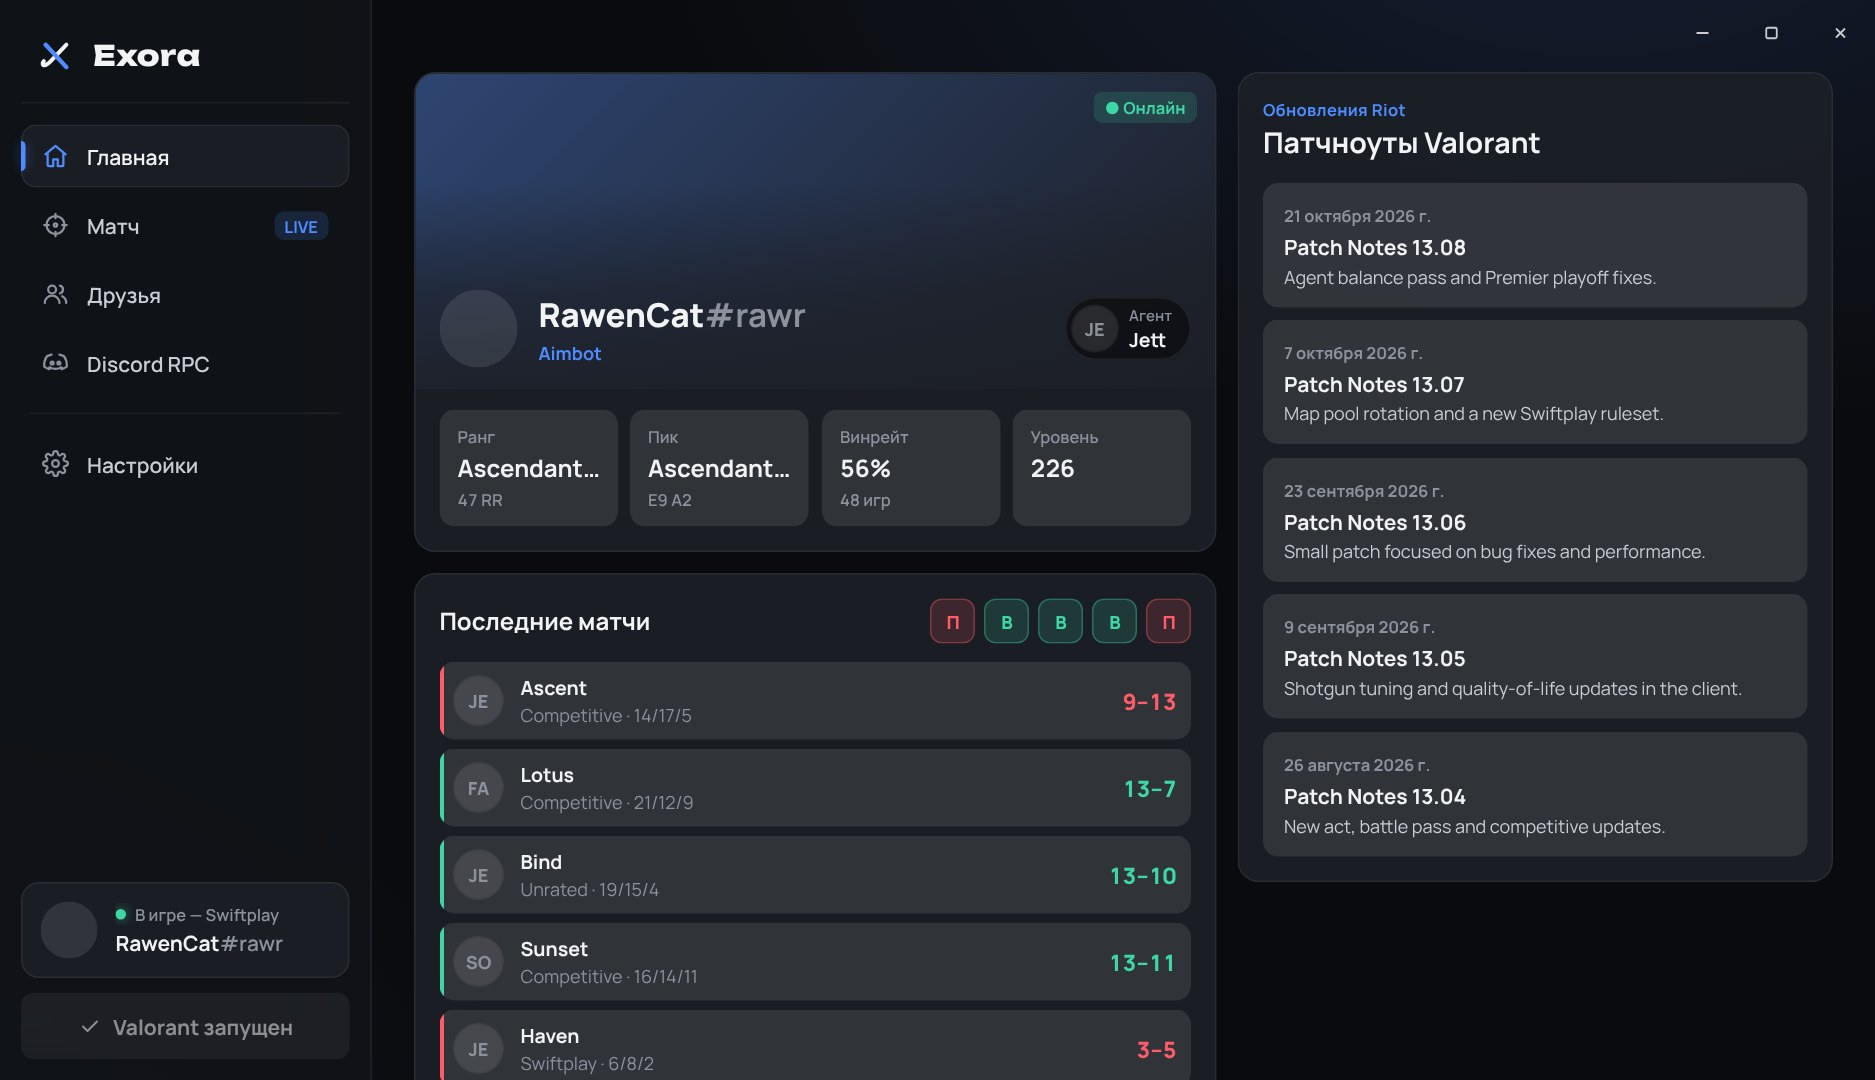
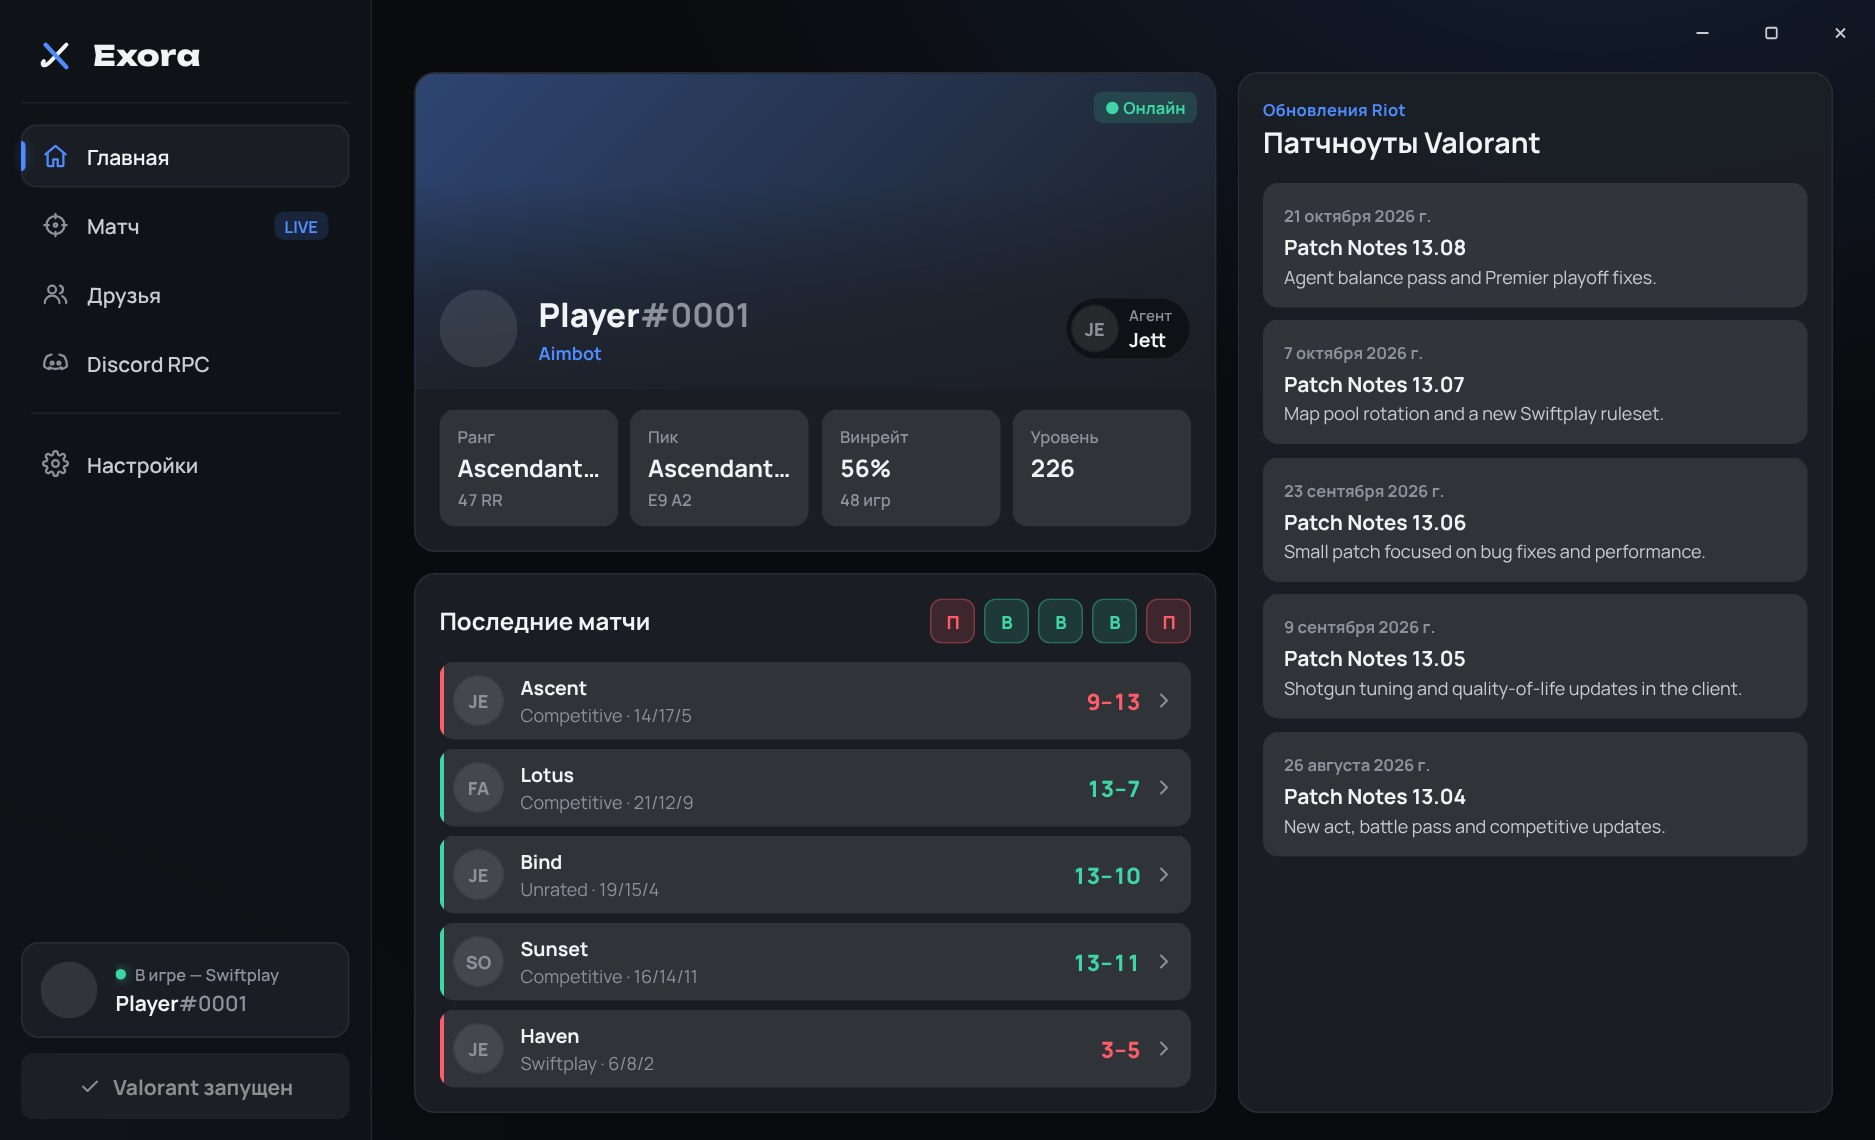
Neutral demo names and new README screenshots
The demo data uses Player / Player2… instead of real-looking names. All README
screenshots are retaken, with two new ones: a finished match with a player
opened, and a friend's profile.

diff --git a/src/ExoraValorant/wwwroot/js/mock.js b/src/ExoraValorant/wwwroot/js/mock.js
@@ -29,16 +29,16 @@ const MOCK = (() => {
   });
 
   const allies = [
-    player({ name: "RawenCat", tag: "rawr", isMe: true, agent: A.fade, title: "Aimbot", level: 226, rankTier: 21, rr: 47, peakTier: 22, peakAct: "E9 A2", prevTier: 20, wr: 56, games: 48, kd: 1.31, hs: 27, party: 0 }),
-    player({ name: "AleSuw", tag: "Niza", agent: A.sage, title: ":3", level: 0, rankTier: 14, rr: 81, peakTier: 16, peakAct: "E8 A3", prevTier: 13, wr: 51, games: 31, kd: 0.94, hs: 19, party: 0 }),
-    player({ name: "sauveur compulsif", tag: "EUW", agent: A.omen, title: "Aura", level: 0, rankTier: 18, rr: 12, peakTier: 19, prevTier: 17, wr: 49, games: 72, kd: 1.05, hs: 22 }),
-    player({ name: "Omega Lux", tag: "8812", agent: A.killjoy, title: "NPC", level: 0, rankTier: 10, rr: 33, peakTier: 12, prevTier: 9, wr: 44, games: 18, kd: 0.82, hs: 14 }),
-    player({ name: "ScorpiOn", tag: "MAIN", agent: A.raze, title: "Grrr", level: 0, rankTier: 16, rr: 64, peakTier: 17, prevTier: 15, wr: 53, games: 40, kd: 1.12, hs: 21 }),
+    player({ name: "Player", tag: "0001", isMe: true, agent: A.fade, title: "Aimbot", level: 226, rankTier: 21, rr: 47, peakTier: 22, peakAct: "E9 A2", prevTier: 20, wr: 56, games: 48, kd: 1.31, hs: 27, party: 0 }),
+    player({ name: "Player2", tag: "0002", agent: A.sage, title: ":3", level: 0, rankTier: 14, rr: 81, peakTier: 16, peakAct: "E8 A3", prevTier: 13, wr: 51, games: 31, kd: 0.94, hs: 19, party: 0 }),
+    player({ name: "Player3", tag: "0003", agent: A.omen, title: "Aura", level: 0, rankTier: 18, rr: 12, peakTier: 19, prevTier: 17, wr: 49, games: 72, kd: 1.05, hs: 22 }),
+    player({ name: "Player4", tag: "0004", agent: A.killjoy, title: "NPC", level: 0, rankTier: 10, rr: 33, peakTier: 12, prevTier: 9, wr: 44, games: 18, kd: 0.82, hs: 14 }),
+    player({ name: "Player5", tag: "0005", agent: A.raze, title: "Grrr", level: 0, rankTier: 16, rr: 64, peakTier: 17, prevTier: 15, wr: 53, games: 40, kd: 1.12, hs: 21 }),
   ];
   const enemies = [
     player({ name: "Reyna", hidden: true, agent: A.reyna, title: "Aimbot", level: 345, rankTier: 16, rr: 20, peakTier: 18, prevTier: 16, wr: 52, games: 61, kd: 1.22, hs: 25, party: 1 }),
-    player({ name: "rudnez", tag: "9888", agent: A.jett, title: "Green Flag", level: 115, rankTier: 16, rr: 71, peakTier: 17, prevTier: 15, wr: 50, games: 22, kd: 1.01, hs: 20, party: 1 }),
-    player({ name: "Saasil花Lu", tag: "月の花 鬼", agent: A.skye, title: "Wub Wub", level: 274, rankTier: 17, rr: 5, peakTier: 19, prevTier: 17, wr: 47, games: 54, kd: 0.97, hs: 18, party: 2, partyGuess: true }),
+    player({ name: "Player6", tag: "0006", agent: A.jett, title: "Green Flag", level: 115, rankTier: 16, rr: 71, peakTier: 17, prevTier: 15, wr: 50, games: 22, kd: 1.01, hs: 20, party: 1 }),
+    player({ name: "Player7", tag: "0007", agent: A.skye, title: "Wub Wub", level: 274, rankTier: 17, rr: 5, peakTier: 19, prevTier: 17, wr: 47, games: 54, kd: 0.97, hs: 18, party: 2, partyGuess: true }),
     player({ name: "Sova", hidden: true, agent: A.sova, title: "", level: 0, levelHidden: true, rankTier: 18, rr: 90, peakTier: 20, prevTier: 18, wr: 58, games: 88, kd: 1.4, hs: 31 }),
     player({ name: "Viper", hidden: true, agent: A.viper, title: "Aura", level: 475, rankTier: 15, rr: 42, peakTier: 16, prevTier: 14, wr: 45, games: 26, kd: 0.88, hs: 16, party: 2, partyGuess: true }),
   ];
@@ -49,7 +49,7 @@ const MOCK = (() => {
     connection: "ok",
     status: { state: "INGAME", mode: "Swiftplay", queue: "swiftplay", party: { size: 2, max: 5 }, score: { ally: 2, enemy: 1 }, since: Date.now() - 3 * 60e3, agent: A.fade },
     me: {
-      name: "RawenCat", tag: "rawr", title: "Aimbot", level: 226, card: allies[0].card,
+      name: "Player", tag: "0001", title: "Aimbot", level: 226, card: allies[0].card,
       rank: rank(21), rr: 47, peak: { ...rank(22), act: "E9 A2" }, wr: 56, games: 48,
       agent: A.jett,
       recent: [
@@ -62,15 +62,15 @@ const MOCK = (() => {
     },
     match: { map, mode: "Swiftplay", state: "INGAME", score: { ally: 2, enemy: 1 }, allies, enemies, single: false },
     friends: [
-      { puuid: "f1", name:"TRAUMADAS LOVER", tag: "Cul0n", status: "ingame", mode: "Swiftplay", rank: rank(16), card: card("33c1f011-4eca-068c-9751-f68c788b2eee"), avatar: `${media}/playercards/33c1f011-4eca-068c-9751-f68c788b2eee/smallart.png` },
-      { puuid: "f2", name:"TP Jayko シ", tag: "bot", status: "ingame", mode: "Competitive", rank: rank(19), card: card("bb6ae873-43ec-efb4-3ea6-93ac00a82d4e") },
-      { puuid: "f3", name:"noteminimal66", tag: "2134q", status: "pregame", mode: "Swiftplay", rank: rank(9), card: card("7fdbe3ef-4fd8-a5a6-0ab2-0ab06da7caa9") },
-      { puuid: "f4", name:"cosmo", tag: "김채원", status: "ingame", mode: "", rank: rank(21), card: card("30b64514-440d-1261-f863-6bbb180263f9") },
-      { puuid: "f5", name:"Koke GS", tag: "KOKE", status: "menus", mode: "Competitive", rank: rank(19), card: card("bb6ae873-43ec-efb4-3ea6-93ac00a82d4e") },
-      { puuid: "f6", name:"AleSuw", tag: "Niza", status: "ingame", mode: "Swiftplay", rank: rank(0), card: card("9fb348bc-41a0-91ad-8a3e-818035c4e561") },
-      { puuid: "f7", name:"yepa2836", tag: "LAN", status: "menus", mode: "Competitive", rank: rank(21), card: card("33c1f011-4eca-068c-9751-f68c788b2eee") },
-      { puuid: "f8", name:"midnight", tag: "0001", status: "offline", mode: "", rank: rank(12), card: null },
-      { puuid: "f9", name:"kuro", tag: "neko", status: "offline", mode: "", rank: null, card: null },
+      { puuid: "f1", name: "Player8", tag: "0008", status: "ingame", mode: "Swiftplay", rank: rank(16), card: card("33c1f011-4eca-068c-9751-f68c788b2eee"), avatar: `${media}/playercards/33c1f011-4eca-068c-9751-f68c788b2eee/smallart.png` },
+      { puuid: "f2", name: "Player9", tag: "0009", status: "ingame", mode: "Competitive", rank: rank(19), card: card("bb6ae873-43ec-efb4-3ea6-93ac00a82d4e") },
+      { puuid: "f3", name: "Player10", tag: "0010", status: "pregame", mode: "Swiftplay", rank: rank(9), card: card("7fdbe3ef-4fd8-a5a6-0ab2-0ab06da7caa9") },
+      { puuid: "f4", name: "Player11", tag: "0011", status: "ingame", mode: "", rank: rank(21), card: card("30b64514-440d-1261-f863-6bbb180263f9") },
+      { puuid: "f5", name: "Player12", tag: "0012", status: "menus", mode: "Competitive", rank: rank(19), card: card("bb6ae873-43ec-efb4-3ea6-93ac00a82d4e") },
+      { puuid: "f6", name: "Player2", tag: "0002", status: "ingame", mode: "Swiftplay", rank: rank(0), card: card("9fb348bc-41a0-91ad-8a3e-818035c4e561") },
+      { puuid: "f7", name: "Player13", tag: "0013", status: "menus", mode: "Competitive", rank: rank(21), card: card("33c1f011-4eca-068c-9751-f68c788b2eee") },
+      { puuid: "f8", name: "Player14", tag: "0014", status: "offline", mode: "", rank: rank(12), card: null },
+      { puuid: "f9", name: "Player15", tag: "0015", status: "offline", mode: "", rank: null, card: null },
     ],
     discord: { connected: true },
     valorantRunning: true,
@@ -104,7 +104,7 @@ const MOCK = (() => {
   const profile = (puuid) => {
     const f = state.friends.find((x) => x.puuid === puuid) || state.friends[0];
     return { ...state.me, name: f.name, tag: f.tag, title: "", card: f.card, rank: f.rank || rank(0), level: 0,
-      recent: state.me.recent.map((r, i) => ({ ...r, id: r.id + puuid, result: i % 2 ? "W" : "L" })) };
+      recent: state.me.recent.map((r) => ({ ...r, id: r.id + puuid })) };
   };
 
   return { state, news, history, profile };

diff --git a/README.ru.md b/README.ru.md
@@ -65,6 +65,11 @@ Riot. Она не лезет в память игры, не меняет её ф
 - **Профиль друга по клику:** ранг, пик, винрейт и последние матчи, которые открываются с его стороны.
 - Поиск по нику.
 
+<p align="center">
+  <img src="docs/screenshots/ru/history.jpg" width="49%" alt="Прошлый матч с раскрытым игроком">
+  <img src="docs/screenshots/ru/profile.jpg" width="49%" alt="Профиль друга">
+</p>
+
 ### 🎮 Discord RPC
 | Настройка | Варианты |
 |---|---|

diff --git a/README.md b/README.md
@@ -65,6 +65,11 @@ When a match is found, Exora switches from Home to this page by itself.
 - **Open a friend** to see their rank, peak, win rate and last matches, and open those matches from their side.
 - Search by name.
 
+<p align="center">
+  <img src="docs/screenshots/en/history.jpg" width="49%" alt="A finished match with a player opened">
+  <img src="docs/screenshots/en/profile.jpg" width="49%" alt="A friend's profile">
+</p>
+
 ### 🎮 Discord RPC
 | Setting | Options |
 |---|---|
